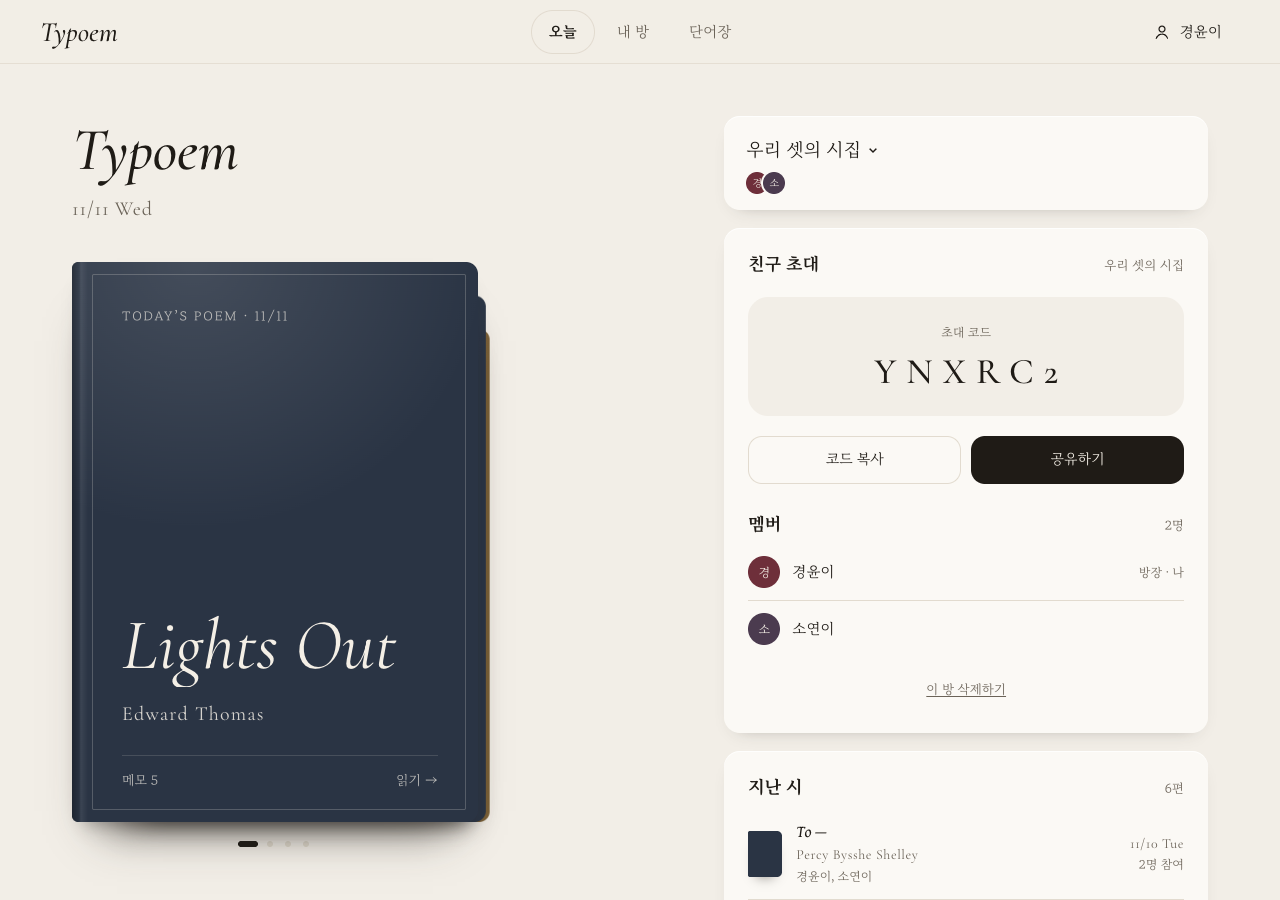
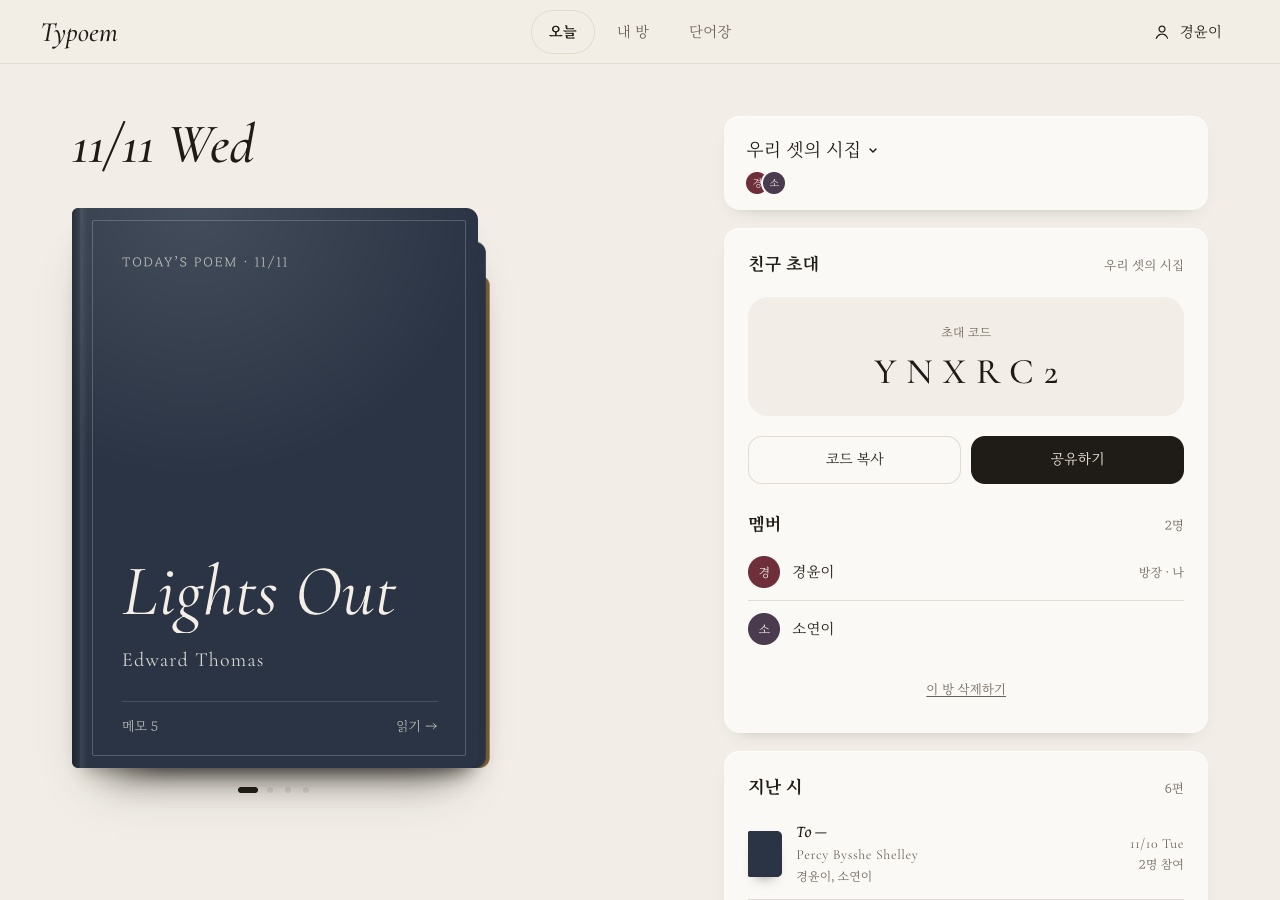
style: show the date in place of the home title at 1024px and up
The logo is already in the top navigation there. The title stays in the
page as a visually hidden h1.

diff --git a/public/styles.css b/public/styles.css
@@ -3141,13 +3141,26 @@ body.book-page {
     gap: 18px;
   }
 
+  /* the logo is in the navigation here; the date takes the title's place.
+     (Hidden from view only: it is still the page's <h1> for screen readers.) */
   .home .app-brand {
-    font-size: 60px;
+    position: absolute;
+    width: 1px;
+    height: 1px;
+    padding: 0;
+    overflow: hidden;
+    clip-path: inset(50%);
+    white-space: nowrap;
   }
 
   .home .app-date {
-    font-size: 20px;
-    margin-top: 8px;
+    font-style: italic;
+    font-weight: 500;
+    font-size: 56px;
+    line-height: 1;
+    letter-spacing: 0;
+    color: var(--ink);
+    margin-top: 0;
   }
 
   .deck {
